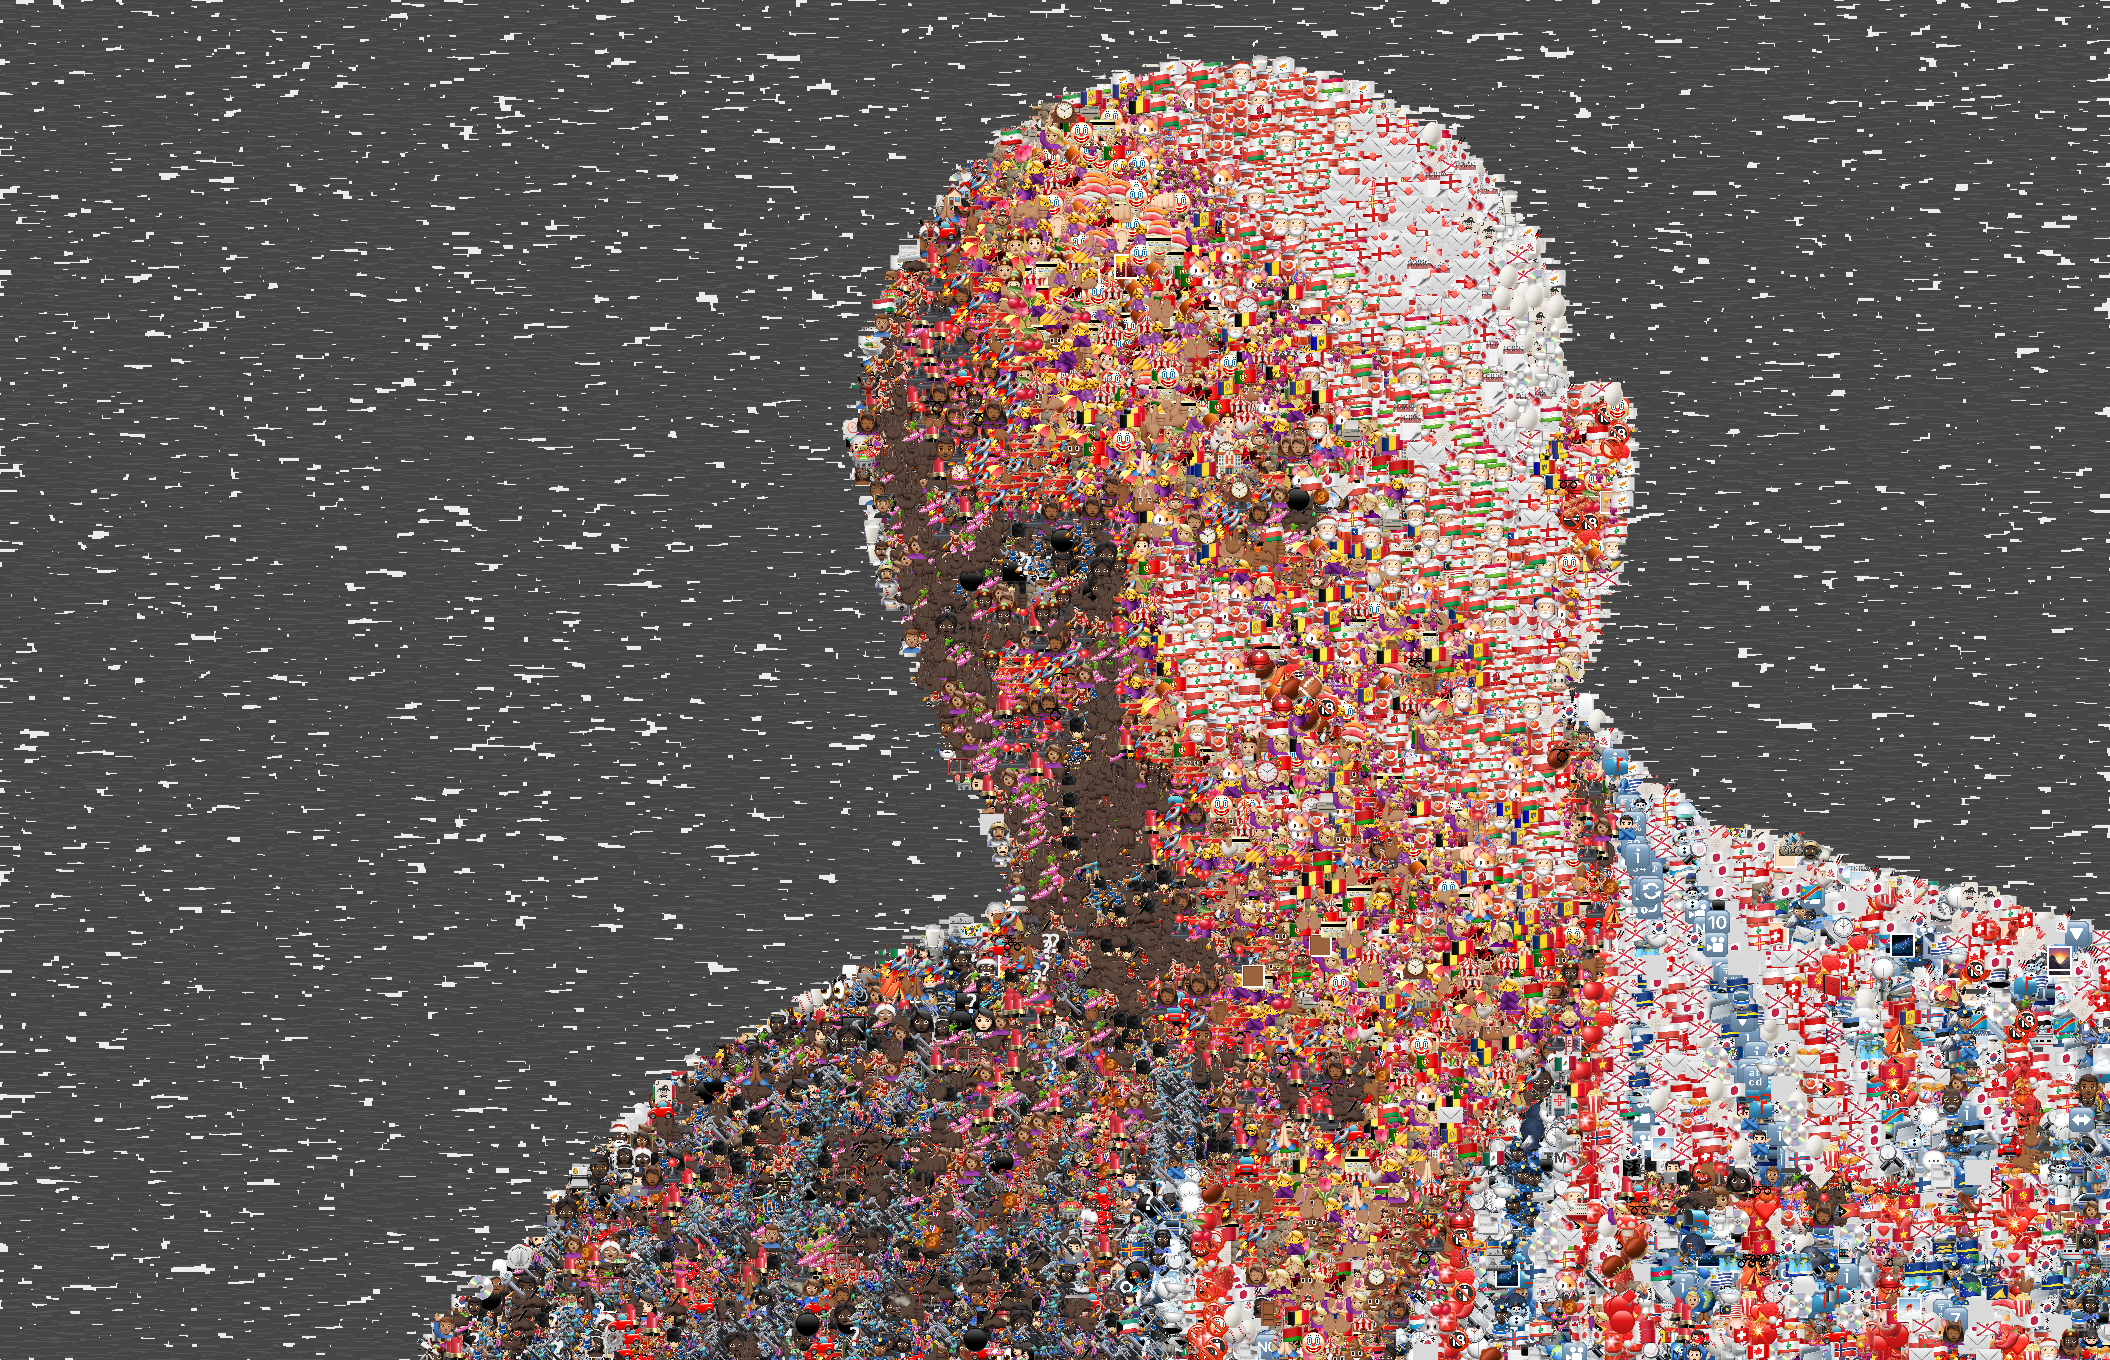
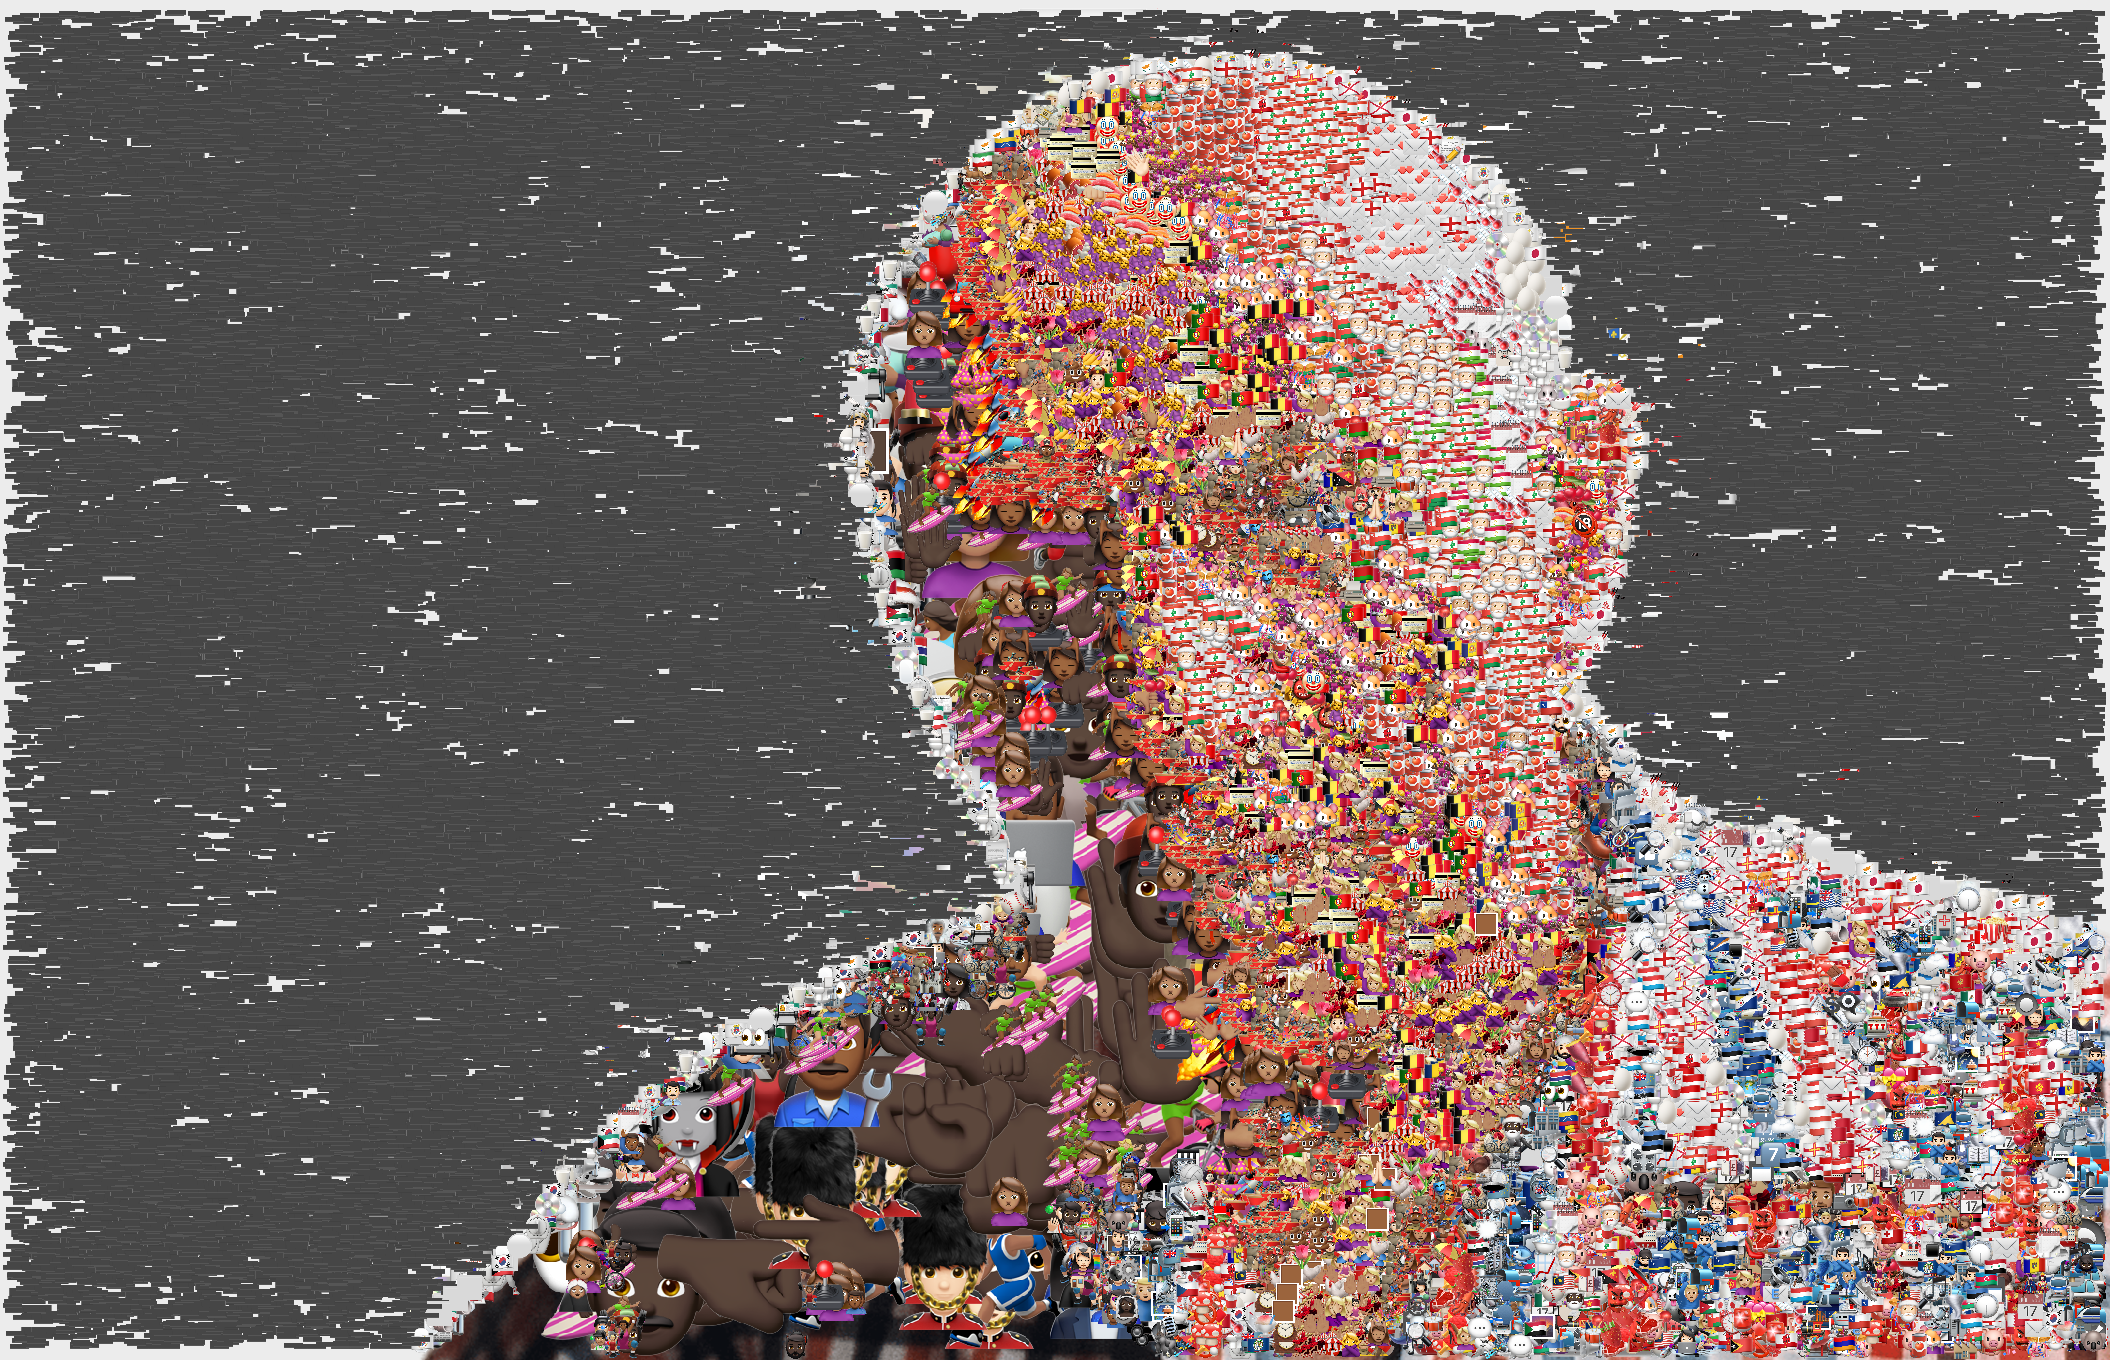
makes emojis different sizes and variance of patch has effect on emoji that populate it

diff --git a/naive_pablo/sliding_naive.py b/naive_pablo/sliding_naive.py
@@ -14,10 +14,11 @@ import random
 from tqdm import tqdm
 
 def sampler(image):
-    """Picks out points on image."""
+    """Picks out points on image in the middle third of the picture (to avoid sampling too much white pixels)."""
     len_x, len_y = (image.size[0], image.size[1])
     x, y = random.randint(0, len_x-1), random.randint(0, len_y-1)
     return x, y
+
 
 def getAverageRGB(image):
     """Given PIL Image, return its Average RGBA value."""
@@ -26,10 +27,10 @@ def getAverageRGB(image):
     im.shape = (w*h, d)
     return tuple(im.mean(axis=0))
 
-def getListOfRGBs(path="../images/emojis/"):
-    """Given a path towards folder with all N emojis build a long (4*N) table with the average RGBA values of each emoji."""
-    list_of_average_RGBS = np.zeros((4, 2363))
-    for i in range(2363):
+def getListOfRGBs(N=2363, path="../images/emojis/"):
+    """Given a path towards folder with all N emojis build a long (4*N) table with the RGBA values of given emoji."""
+    list_of_average_RGBS = np.zeros((4, N))
+    for i in range(N):
         new_path = path+str(i)+'.png'
         emoji = Image.open(new_path)
         average_rgb = np.array(getAverageRGB(emoji))
@@ -51,7 +52,7 @@ def findEmojiNumber(pixel_value, list_of_average_RGBs, tol = 4000, num_emojis = 
             return i
     return 0
 
-def findEmojiNumberPrecise(pixel_value, list_of_average_RGBs):
+def findEmojiNumberPrecise(pixel_value, list_of_average_RGBs, num_emojis = 2362):
     """Given a pixel value sampled from the image, and a list of the average color of different emojis, 
     find an emoji that approximates the colour of the sampled pixel.
 
@@ -77,6 +78,29 @@ def pasteEmoji(image, emoji_number, location, emoji_size = 25, path="../images/e
 
     image.paste(emoji, (location[0]-int(emoji_size/2), location[1]-int(emoji_size/2)), emoji)
 
+def getPatch(image, k):
+    """Picks out a k*k patch of the image"""
+    len_x, len_y = (image.size[0], image.size[1])
+    x, y = random.randint(0, len_x-1-k), random.randint(0, len_y-1-k)
+    return image.crop((x, y, x+k, y+k)), (x+int(k/2), y+int(k/2))
+
+def findVariance(patch):
+    """Returns the variance of a patch of image"""
+    return np.var(np.array(patch))
+
+def iterate(num_iters, k, base, image, variance_threshold, table, path="../images/emojis/"):
+    acceptance = 0
+    for i in range(num_iters):
+        patch, location = getPatch(base, k)
+        pixel = np.array(getAverageRGB(patch))
+        if findVariance(patch) < variance_threshold:
+            acceptance +=1
+            emoji_num = findEmojiNumberPrecise(pixel, table)
+            emoji = pasteEmoji(image, emoji_num, location, emoji_size=k, path=path)
+        if i % int(num_iters/4) == 0:
+            print(f'{i/num_iters *100}% of {k} iteration completed')
+    return acceptance/num_iters * 100
+
 
 def main():
     """Runs entire script
@@ -93,14 +117,9 @@ def main():
     emoji_size = 25 
     list_of_RGBs = getListOfRGBs()
 
-    for i in tqdm(range(iters)):
-        location = sampler(base)
-        pixel = base.getpixel(location)
-        pixel = pixel[0:3]
-        
-        emoji_num = findEmojiNumberPrecise(pixel, list_of_RGBs)
-        emoji = pasteEmoji(image, emoji_num, location, emoji_size=emoji_size)
-
+    acc150 = iterate(1000, 150, base, image, 10000, list_of_RGBs)
+    acc50 = iterate(10000, 50, base, image, 8000, list_of_RGBs)
+    acc25 = iterate(50000, 25, base, image, 6000, list_of_RGBs)
 
     image.save("new_"+image_name+"_"+str(iters)+".png")
     
